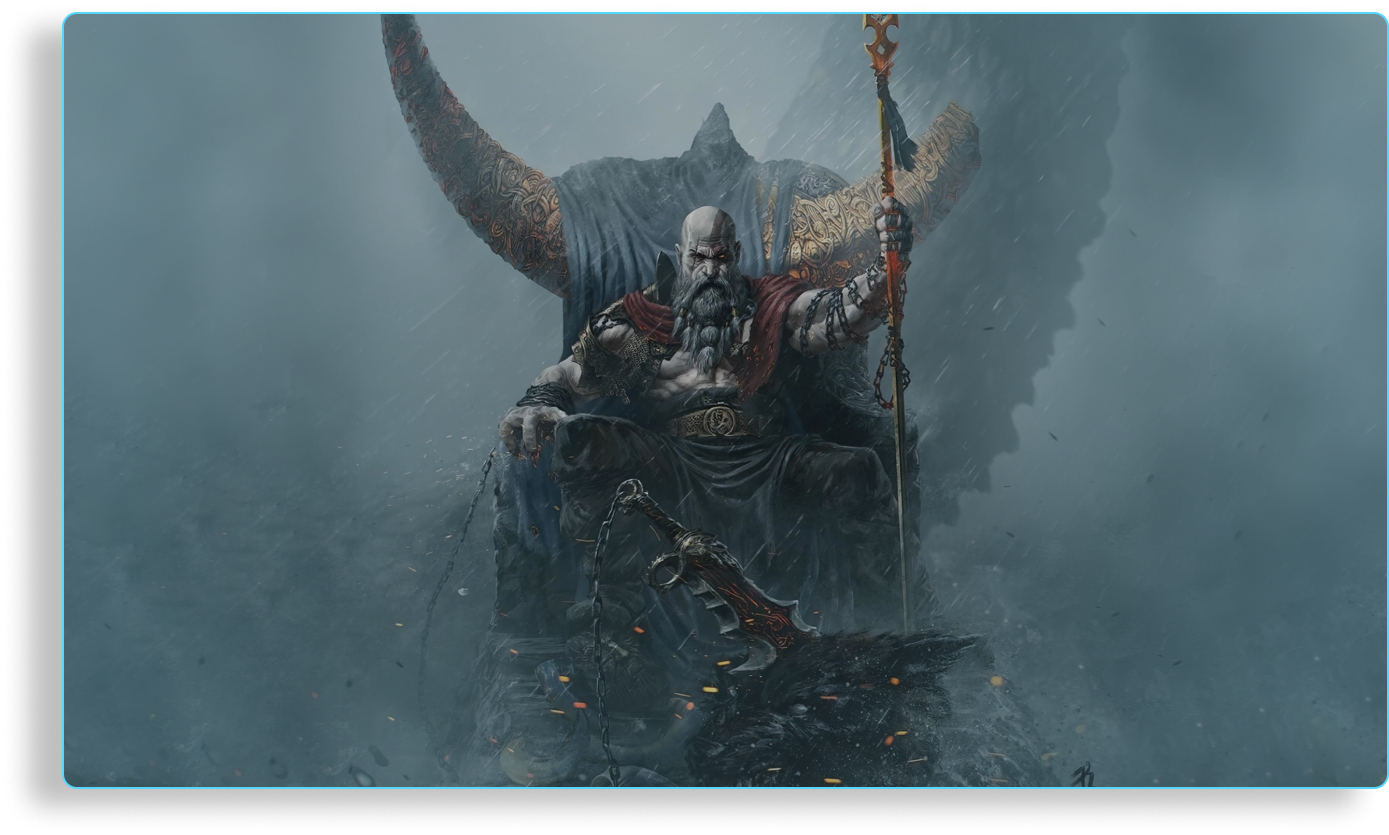
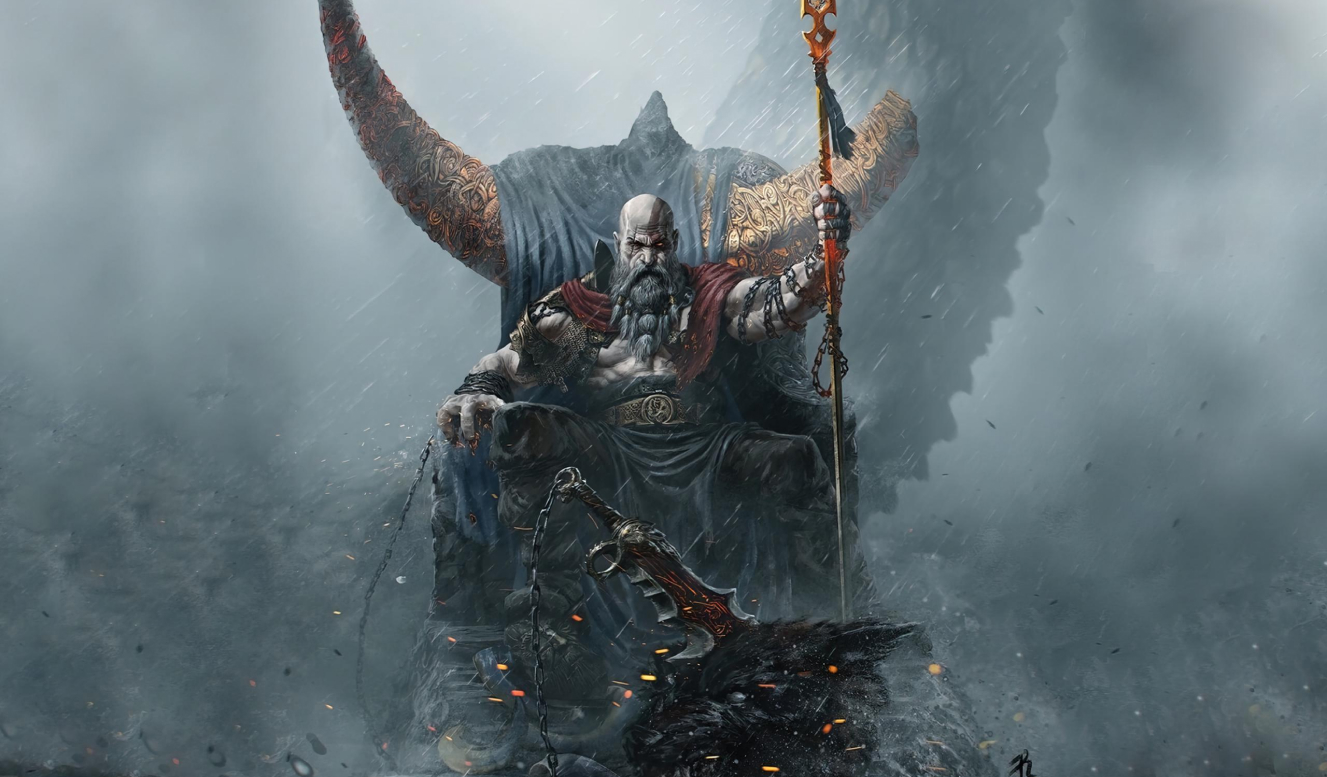
fix slider

diff --git a/src/components/Navbar/index.styles.ts b/src/components/Navbar/index.styles.ts
@@ -1,5 +1,6 @@
 import styled from '@emotion/styled';
 import { motion } from 'framer-motion';
+import {getBreakpoint} from "@/Breakpoints";
 
 export const NavbarList = styled.nav`
   display: flex;
@@ -7,14 +8,14 @@ export const NavbarList = styled.nav`
 `;
 
 export const NavbarRight = styled.div`
-  display: grid;
-  grid-template-columns:
-    minmax(61px, 97px) minmax(61px, 100px) minmax(61px, 98px)
-    minmax(150px, 200px) minmax(50px, 76px) minmax(120px, 158px) auto;
-  grid-gap: 10px;
-	padding-left: 10px;
+	display: flex;
+	justify-content: space-between;
   width: 100%;
   max-width: 861px;
+	margin-left: 10px;
+	// @media (max-width: ${getBreakpoint('TABLET_UL', 'down')}) {
+  //   padding: 47px 115px 48px 57px;
+  // }
 `;
 
 export const NavbarTab = styled(motion.span)`

diff --git a/src/css/custom-slider.css b/src/css/custom-slider.css
@@ -1,26 +1,26 @@
 
-.slick {
-     background: #141C24;
-}
-.slick-slider {
+/*.slick {*/
+/*     background: #141C24;*/
+/*}*/
+/*.slick-slider {*/
 
-  overflow: hidden;
-    background: #141C24;
-}
+/*  overflow: hidden;*/
+/*    background: #141C24;*/
+/*}*/
 
-.slick-list {
-    margin: -40px;
-    padding: -40px;
-    border: none;
+/*.slick-list {*/
+/*    margin: -40px;*/
+/*    padding: -40px;*/
+/*    border: none;*/
 
-    background: #141C24;
-}
+/*    background: #141C24;*/
+/*}*/
 
-.slick-track {
+/*.slick-track {*/
 
-    background: #141C24;
-}
-.slick-slide {
-    margin: 0;
-    border: none;
-}
+/*    background: #141C24;*/
+/*}*/
+/*.slick-slide {*/
+/*    margin: 0;*/
+/*    border: none;*/
+/*}*/

diff --git a/src/sliders/ServiceSlider/partials/Slides/index.styles.ts b/src/sliders/ServiceSlider/partials/Slides/index.styles.ts
@@ -5,6 +5,14 @@ export const SlidesImg = styled.img`
   padding: 0;
   margin: 0;
   width: 100%;
-  height: 100%;
-  //object-fit: cover;
+  height: 777px;
+  object-fit: cover;
+  background: radial-gradient(
+      96.01% 49.95% at 50.05% 49.91%,
+      rgba(82, 125, 139, 0) 0%,
+      rgba(82, 125, 139, 0.5) 100%
+    ),
+    linear-gradient(0deg, rgba(0, 0, 0, 0.2) 0%, rgba(0, 0, 0, 0.2) 100%),
+    lightgray 0px -186.085px / 100% 128.089% no-repeat;
+  box-shadow: -33px 17px 29px 0px rgba(0, 0, 0, 0.25);
 `;

diff --git a/src/components/Slider/index.tsx b/src/components/Slider/index.tsx
@@ -3,12 +3,15 @@ import { SliderContainer } from '@/components/Slider/index.styles';
 
 const autoPlaySettings = {
   dots: false,
-  arrows: true,
+  arrows: false,
   infinite: true,
   slidesToShow: 1,
   slidesToScroll: 1,
-  
+  // autoplay: true,
+  // autoplaySpeed: 2000,
+  pauseOnHover: true,
 };
+
 export function SliderAutoPlay({ children }: PropsWithChildren) {
   return <SliderContainer {...autoPlaySettings}>{children}</SliderContainer>;
 }

diff --git a/src/components/Header/index.styles.ts b/src/components/Header/index.styles.ts
@@ -18,10 +18,10 @@ export const HeaderContainer = styled.div`
   display: block;
   align-items: center;
 	width: 100%;
-  padding: 47px 151px 40px 93px;
+  padding: 47px 115px 48px 57px;
 	
 	@media (max-width: ${getBreakpoint('DESKTOP_S', 'down')}) {
-    padding: 47px 121px 40px 73px;
+    padding: 47px 115px 48px 57px;
   }
 	
 	@media (max-width: ${getBreakpoint('TABLET_L', 'down')}) {

diff --git a/src/components/Navbar/index.tsx b/src/components/Navbar/index.tsx
@@ -27,9 +27,7 @@ export function Navbar() {
 
   return (
     <NavbarList>
-      <Link to="/">
-        <img src={LogoBlue} alt="logo" />
-      </Link>
+      <img src={LogoBlue} alt="logo" />
       <NavbarRight>
         {tabs.map((tab) => (
           <NavBtn key={tab.id} onClick={() => setActiveTab(tab.id)}>

diff --git a/src/components/Layout/index.styles.ts b/src/components/Layout/index.styles.ts
@@ -10,8 +10,8 @@ export const Container = styled.div`
   margin-right: auto;
   margin-left: auto;
   position: relative;
-  padding-left: 20px;
-  padding-right: 20px;
+  padding-left: 56px;
+  padding-right: 56px;
 
   @media (max-width: ${getBreakpoint('TABLET_M', 'down')}) {
     padding-left: 10px;

diff --git a/src/sliders/ServiceSlider/index.styles.ts b/src/sliders/ServiceSlider/index.styles.ts
@@ -3,8 +3,7 @@ import { getBreakpoint } from '@/Breakpoints';
 
 export const SliderWrapper = styled.div`
   width: 100%;
-  height: 100%;
-  max-height: 777px;
+  height: 777px;
   border-radius: 15px;
   border: 0.5px solid #57d6ff;
 	overflow: hidden;
